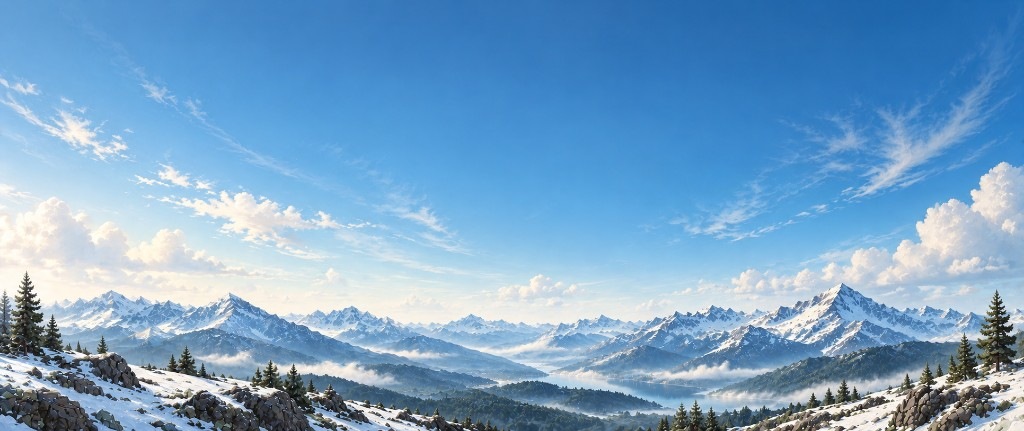
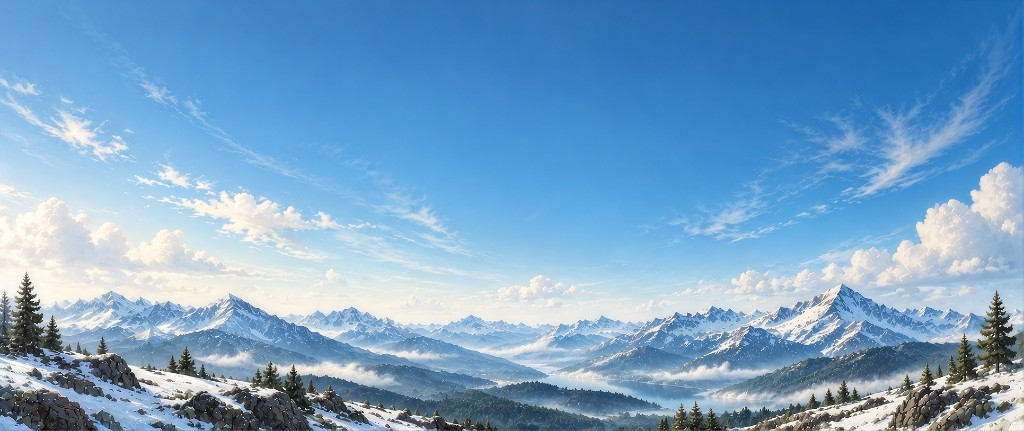
Keep the footer landscape at native size and swap in the new day and night photos.
Stretching the 1024px files to fill the screen was making them look pixelated.

diff --git a/src/styles/v2.css b/src/styles/v2.css
@@ -371,11 +371,15 @@ body:has(.v2-root.dark) {
 }
 
 .v2-root .v2-footer-landscape {
-  height: 100%;
-  inset: 0;
+  bottom: 0;
+  height: min(431px, 100%);
   isolation: isolate;
+  left: 0;
   overflow: hidden;
+  pointer-events: none;
   position: absolute;
+  right: 0;
+  top: auto;
   width: 100%;
   z-index: 0;
 }
@@ -385,9 +389,12 @@ body:has(.v2-root.dark) {
 }
 
 .v2-root .v2-footer-landscape-img {
-  object-fit: cover;
-  object-position: center;
+  height: 100%;
+  max-width: none;
+  object-fit: none;
+  object-position: center bottom;
   transition: opacity 280ms cubic-bezier(0.42, 0, 0.58, 1);
+  width: 100%;
 }
 
 .v2-root .v2-footer-landscape-img--dark {

diff --git a/src/components/v2/archive/ArchiveFooter.tsx b/src/components/v2/archive/ArchiveFooter.tsx
@@ -12,7 +12,7 @@ function FooterLandscape() {
         alt=""
         fill
         priority
-        sizes="100vw"
+        sizes="1024px"
         className="v2-footer-landscape-img v2-footer-landscape-img--light"
       />
       <Image
@@ -20,7 +20,7 @@ function FooterLandscape() {
         alt=""
         fill
         priority
-        sizes="100vw"
+        sizes="1024px"
         className="v2-footer-landscape-img v2-footer-landscape-img--dark"
       />
     </div>
